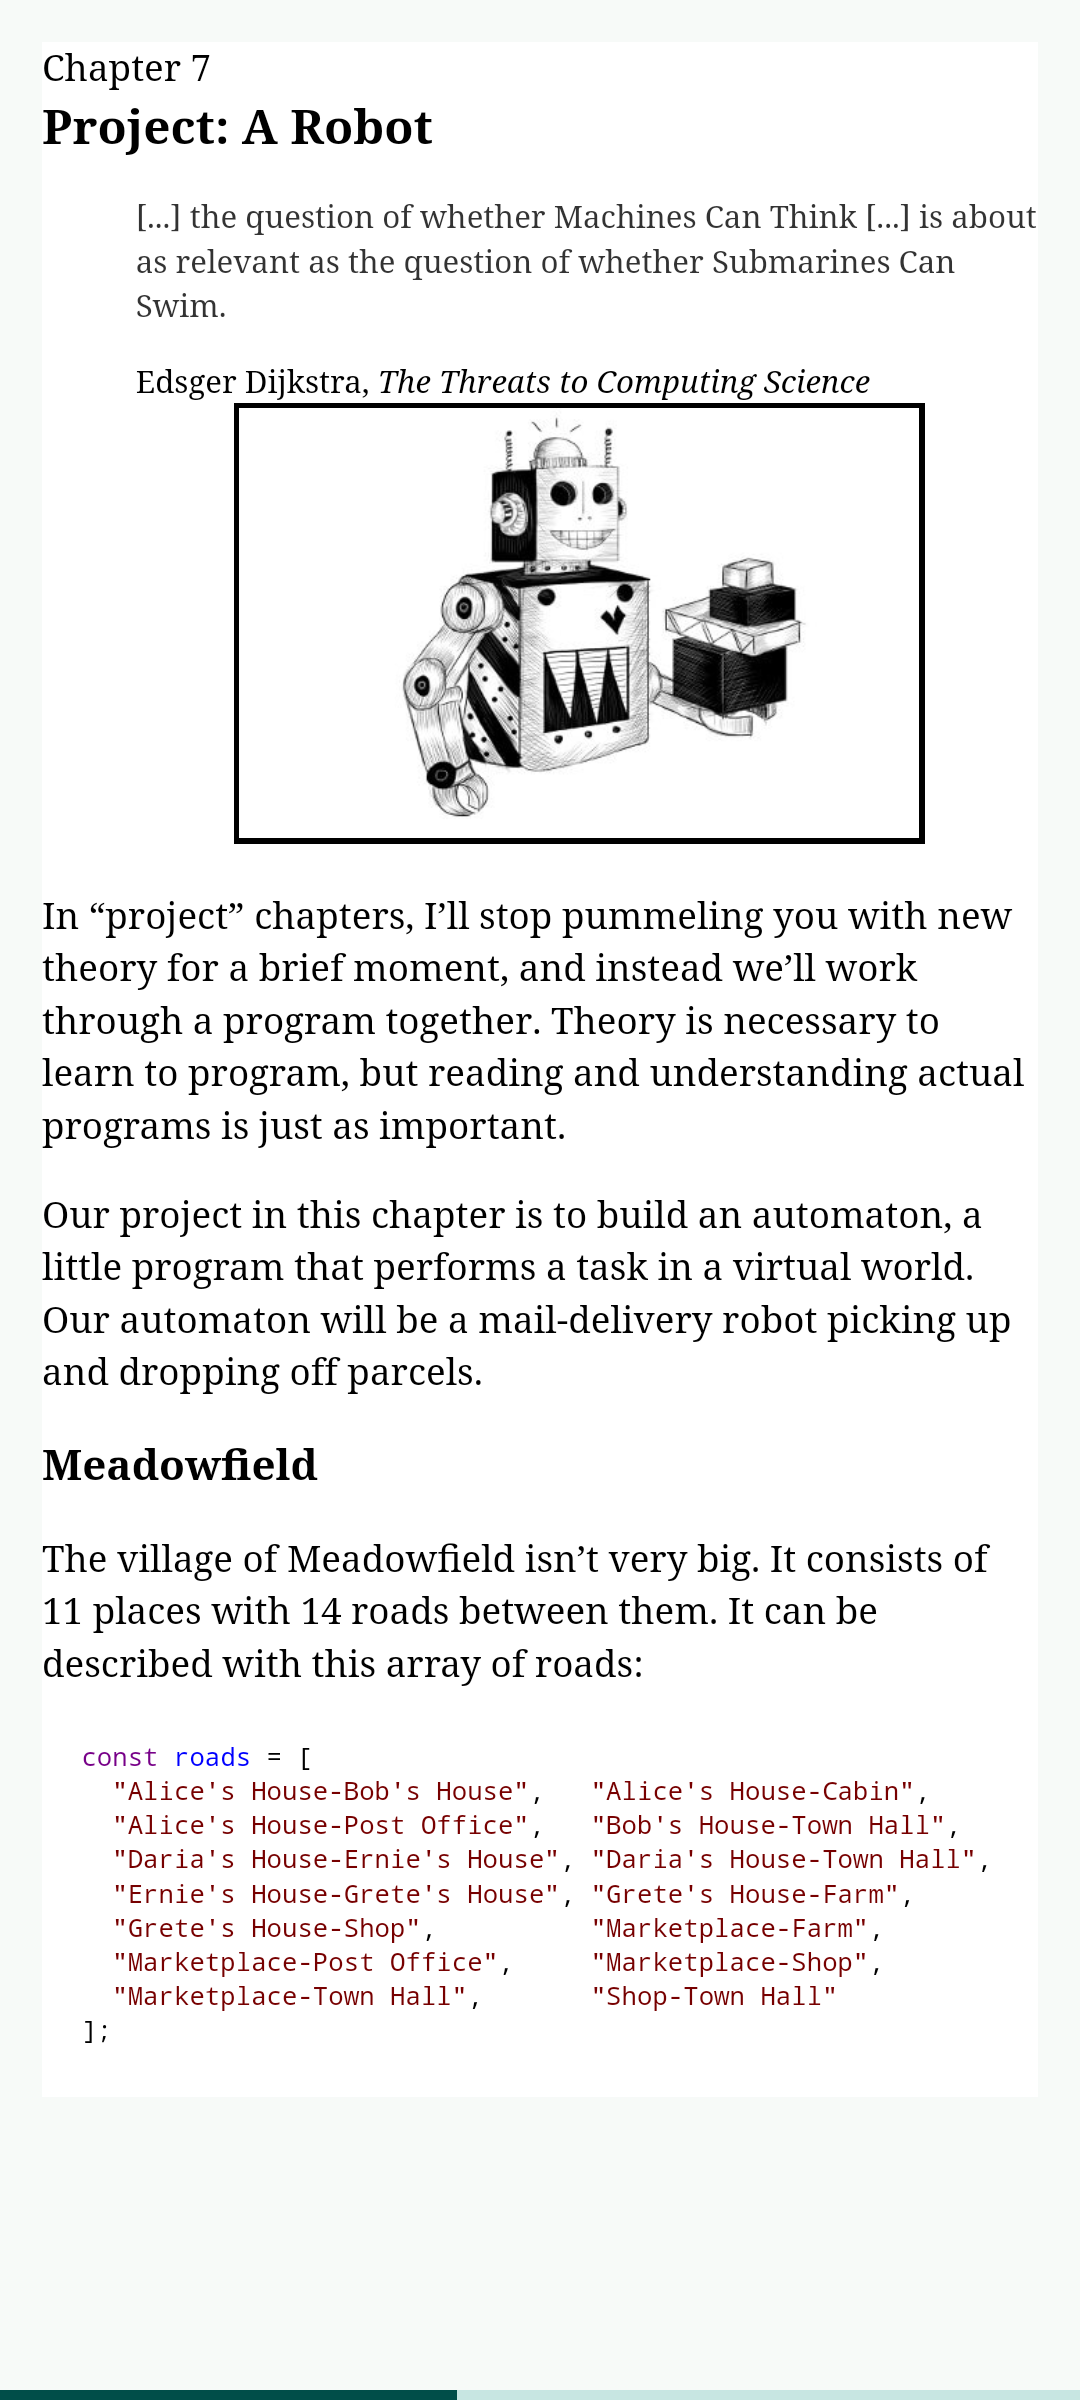
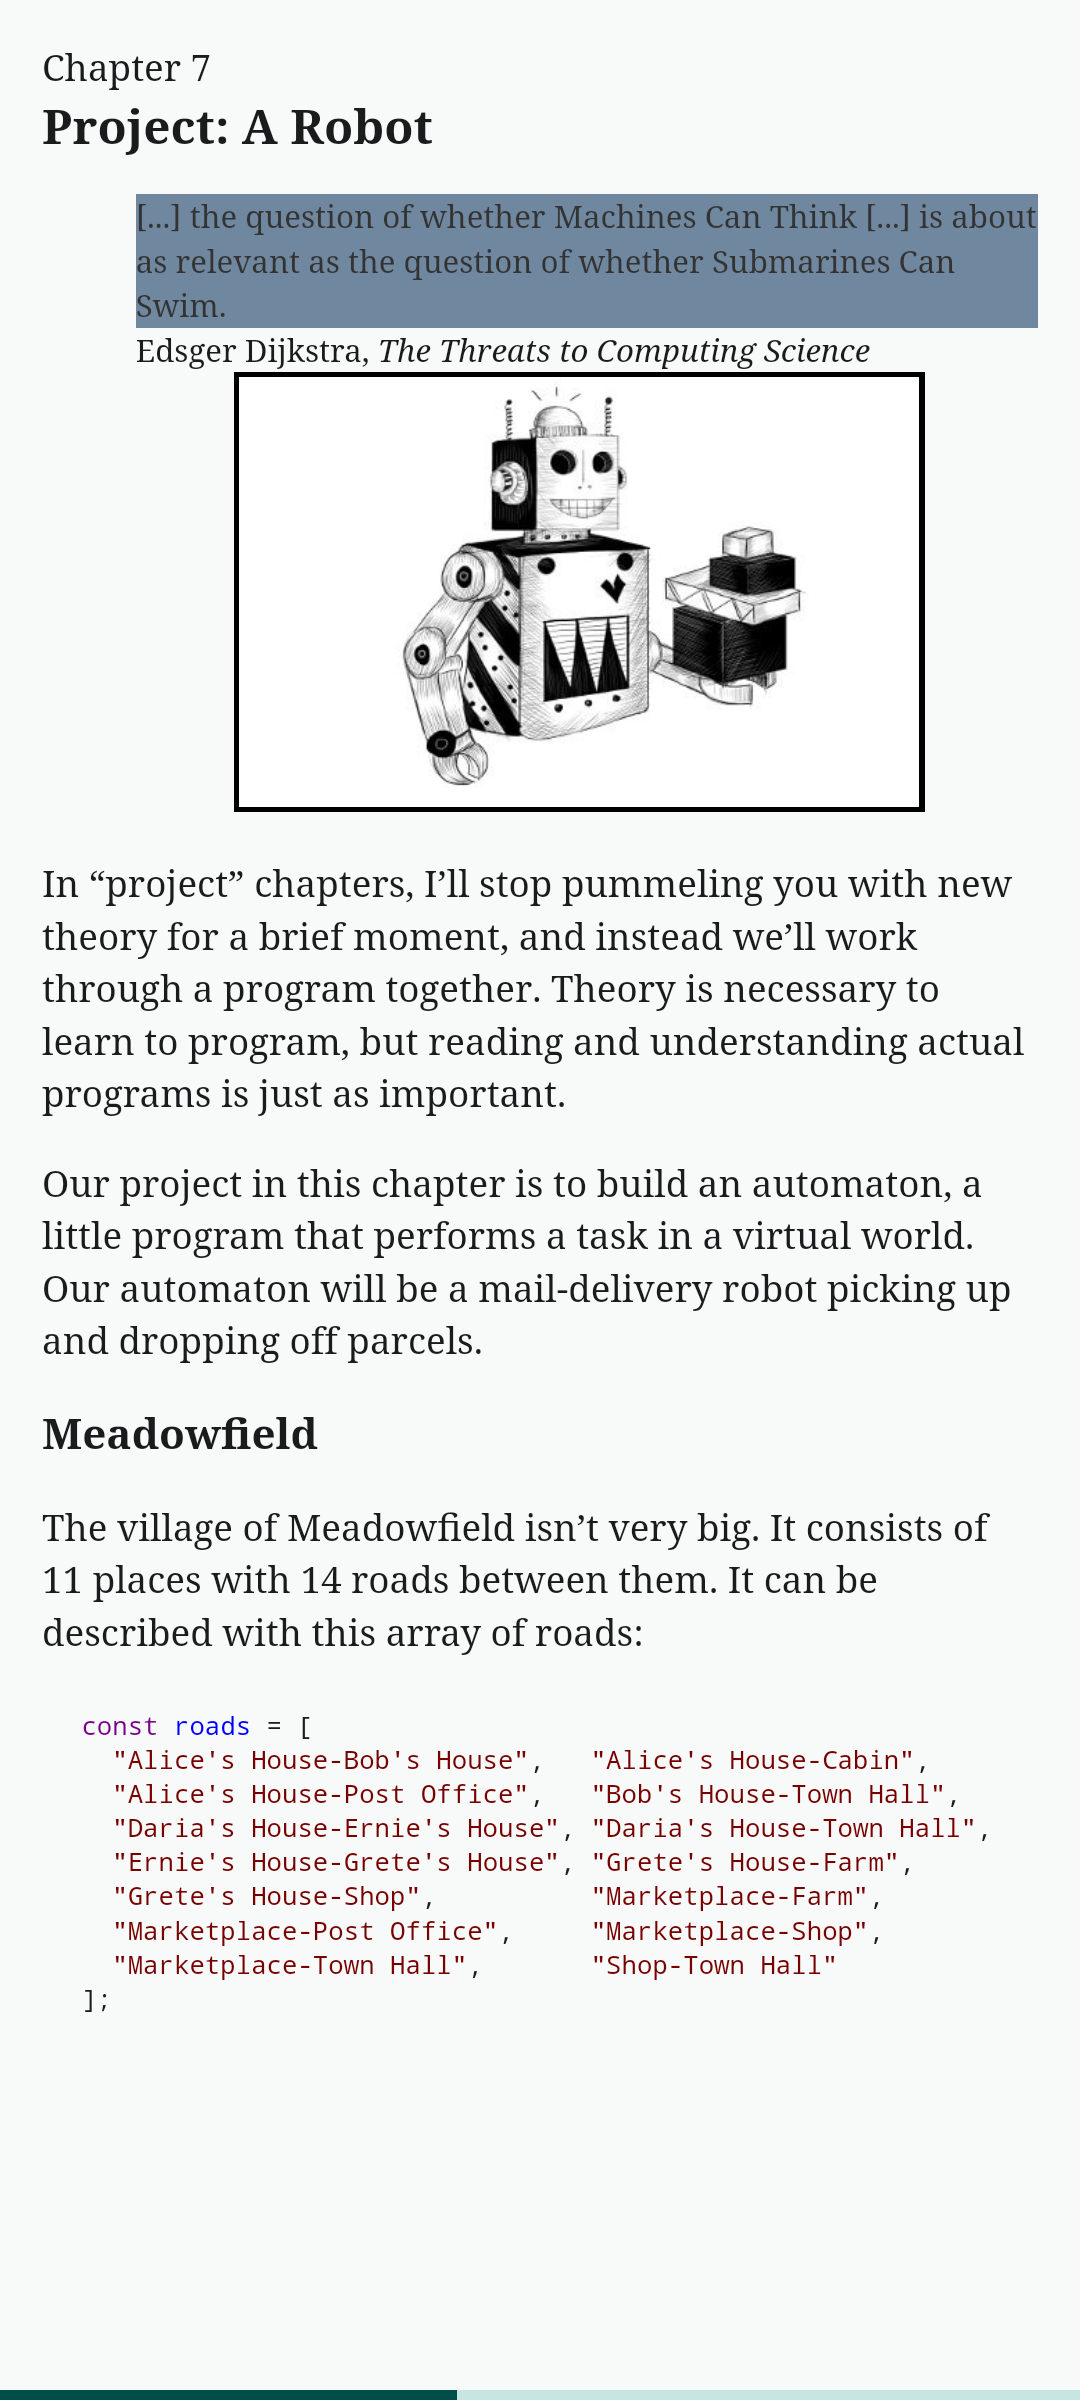
chore: update screenshots

Changed region(s): [[0.0306, 0.0312, 0.9778, 0.8438], [0.8861, 0.3438, 0.9167, 0.4062]]

diff --git a/integration_test/screenshots_test.dart b/integration_test/screenshots_test.dart
@@ -268,7 +268,7 @@ void main() {
 
       await binding.screenshot(tester, 'epub_reader');
 
-      final center = tester.getCenter(find.byType(Scaffold));
+      final center = tester.getCenter(find.byType(ReaderOverlay));
       await tester.tapAt(center);
       await tester.pump(500.ms);
       await binding.screenshot(tester, 'epub_reader_overlay');
